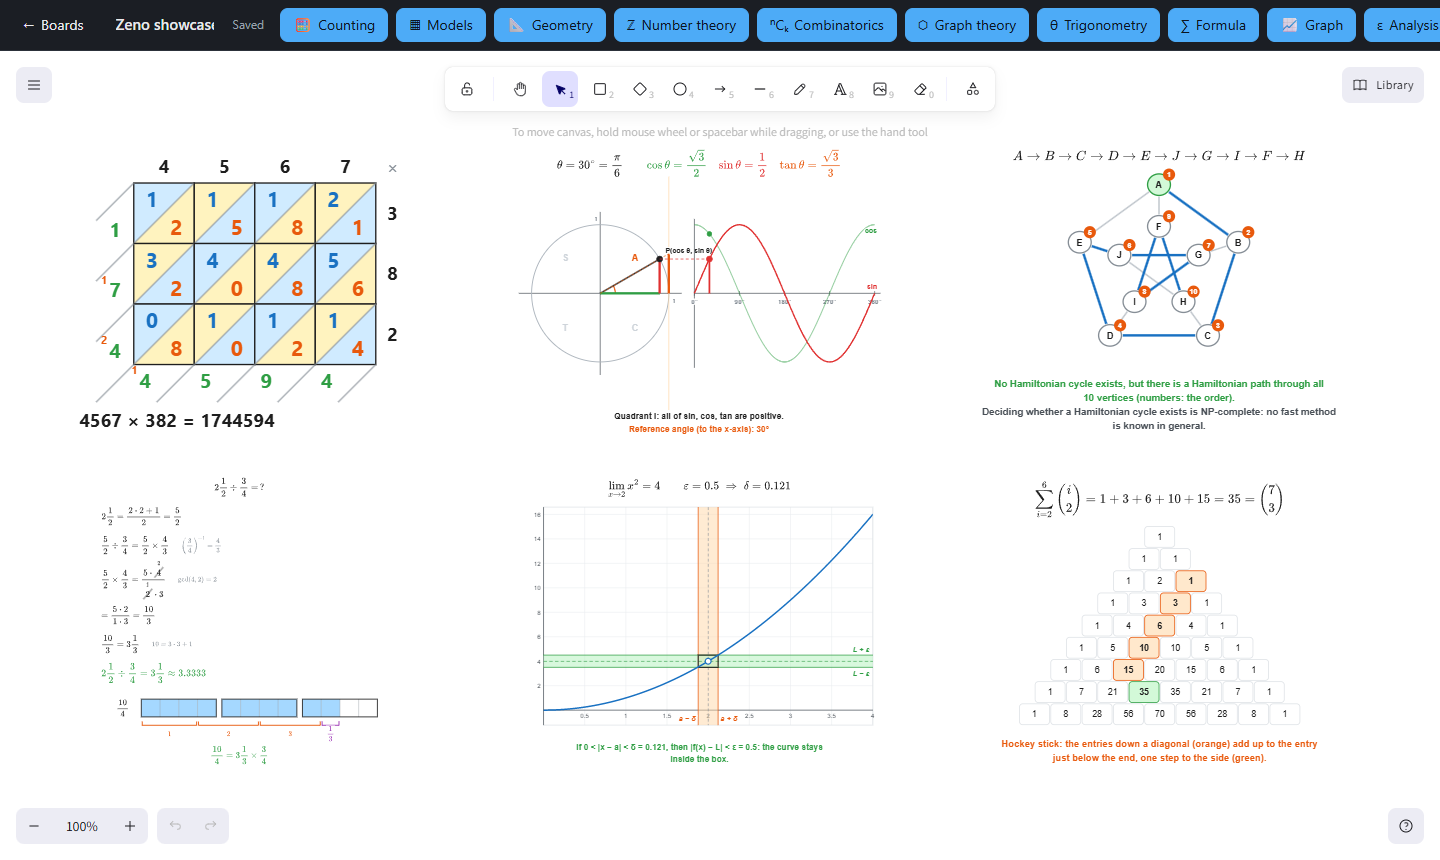
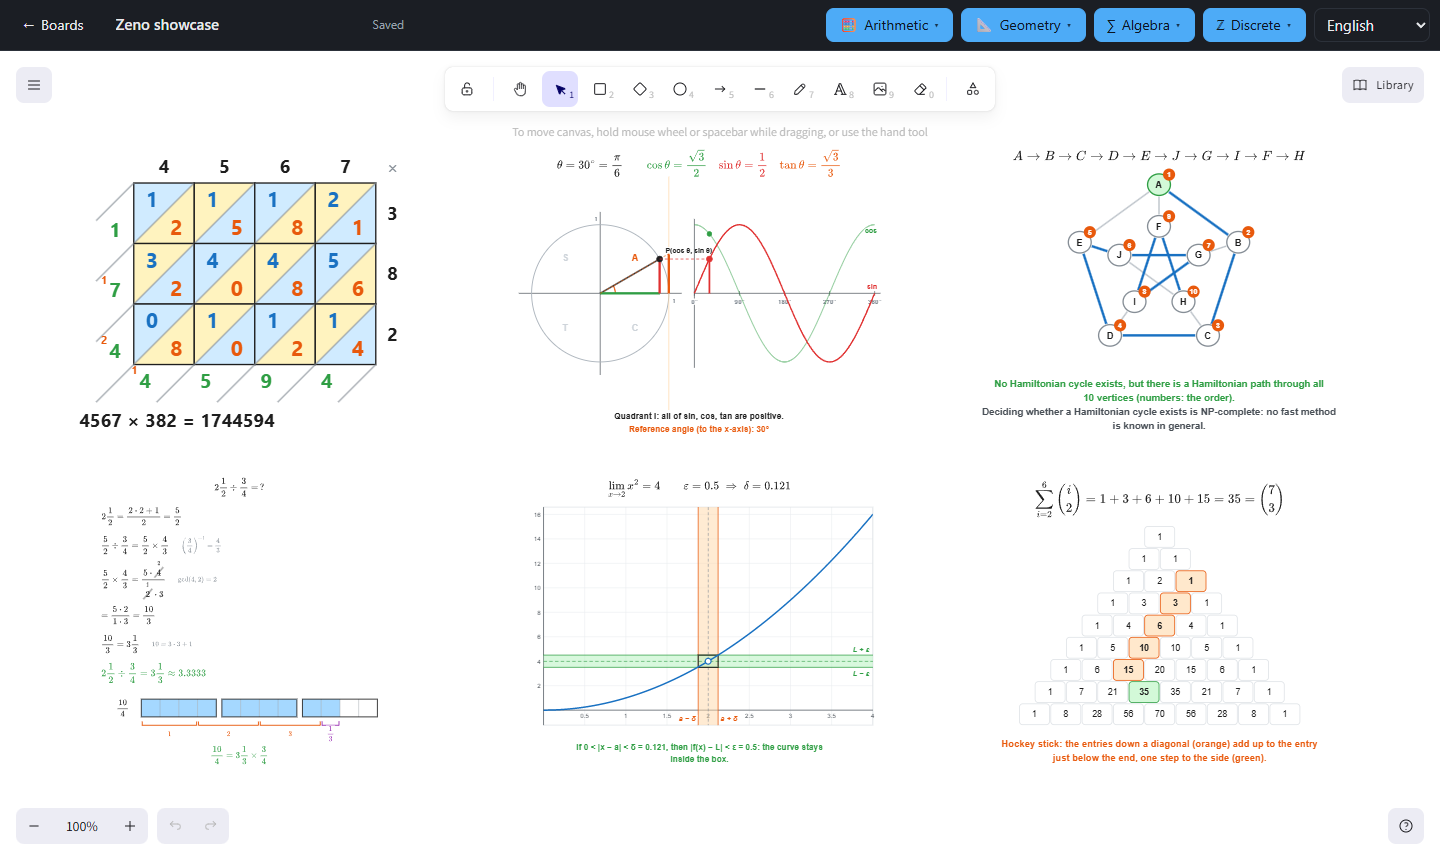
Group the toolbar into four menus: Arithmetic, Geometry, Algebra, Discrete
The 16 tool buttons are replaced by four dropdown menus (with full group
names as tooltips, keyboard navigation and Esc to close). The bar now fits
in all three languages, down to phone width. README screenshots retaken.

Changed region(s): [[0.1875, 0.0, 1.0, 0.0605]]

diff --git a/src/pages/BoardPage.tsx b/src/pages/BoardPage.tsx
@@ -15,6 +15,7 @@ import { LangSelect, useI18n } from "../i18n";
 import { FormulaDialog, type FormulaData } from "../components/FormulaDialog";
 import { GraphDialog } from "../components/GraphDialog";
 import { ModelDialog } from "../components/ModelDialog";
+import { ToolMenu } from "../components/ToolMenu";
 import type { ModelSpec, ModelType } from "../math/models";
 import type { RenderedSvg } from "../math/latex";
 import type { PlotSpec } from "../math/plot";
@@ -299,22 +300,30 @@ export function BoardPage({ id }: { id: string }) {
             ✎ <span className="btn-label">{{ formula: t.editFormula, graph: t.editGraph, model: t.editModel, "3d": t.edit3d, matrix: t.editMatrix, geometry: t.editGeometry, analysis: t.editAnalysis, statistics: t.editStatistics, integral: t.editIntegral, ode: t.editOde, trig: t.editTrig, algo: t.editAlgo, nt: t.editNt, comb: t.editComb, gt: t.editGt }[mathOf(selectedMath)!.kind]}</span>
           </button>
         )}
-        <button className="btn primary" onClick={() => setDialog({ kind: "model", start: "placeValue" })} title={t.counting}>🧮 <span className="btn-label">{t.counting}</span></button>
-        <button className="btn primary" onClick={() => setDialog({ kind: "model" })} title={t.models}>▦ <span className="btn-label">{t.models}</span></button>
-        <button className="btn primary" onClick={() => setDialog({ kind: "geometry" })} title={t.geometry}>📐 <span className="btn-label">{t.geometry}</span></button>
-        <button className="btn primary" onClick={() => setDialog({ kind: "nt" })} title={t.nt}>ℤ <span className="btn-label">{t.nt}</span></button>
-        <button className="btn primary" onClick={() => setDialog({ kind: "comb" })} title={t.comb}>ⁿCₖ <span className="btn-label">{t.comb}</span></button>
-        <button className="btn primary" onClick={() => setDialog({ kind: "gt" })} title={t.gt}>⬡ <span className="btn-label">{t.gt}</span></button>
-        <button className="btn primary" onClick={() => setDialog({ kind: "trig" })} title={t.trig}>θ <span className="btn-label">{t.trig}</span></button>
-        <button className="btn primary" onClick={() => setDialog({ kind: "formula" })} title={t.formula}>∑ <span className="btn-label">{t.formula}</span></button>
-        <button className="btn primary" onClick={() => setDialog({ kind: "graph" })} title={t.graph}>📈 <span className="btn-label">{t.graph}</span></button>
-        <button className="btn primary" onClick={() => setDialog({ kind: "analysis" })} title={t.analysis}>ε <span className="btn-label">{t.analysis}</span></button>
-        <button className="btn primary" onClick={() => setDialog({ kind: "integral" })} title={t.integrals}>∫ <span className="btn-label">{t.integrals}</span></button>
-        <button className="btn primary" onClick={() => setDialog({ kind: "ode" })} title={t.odes}>y′ <span className="btn-label">{t.odes}</span></button>
-        <button className="btn primary" onClick={() => setDialog({ kind: "statistics" })} title={t.statistics}>📊 <span className="btn-label">{t.statistics}</span></button>
-        <button className="btn primary" onClick={() => setDialog({ kind: "matrix" })} title={t.matrices}>[ ] <span className="btn-label">{t.matrices}</span></button>
-        <button className="btn primary" onClick={() => setDialog({ kind: "algo" })} title={t.algo}>⇅ <span className="btn-label">{t.algo}</span></button>
-        <button className="btn primary" onClick={() => setDialog({ kind: "3d" })} title={t.threeD}>🧊 <span className="btn-label">{t.threeD}</span></button>
+        <ToolMenu icon="🧮" label={t.groupArithmetic} items={[
+          { icon: "🧮", label: t.counting, onPick: () => setDialog({ kind: "model", start: "placeValue" }) },
+          { icon: "▦", label: t.models, onPick: () => setDialog({ kind: "model" }) },
+        ]} />
+        <ToolMenu icon="📐" label={t.groupGeometryShort} title={t.groupGeometry} items={[
+          { icon: "📐", label: t.geometry, onPick: () => setDialog({ kind: "geometry" }) },
+          { icon: "θ", label: t.trig, onPick: () => setDialog({ kind: "trig" }) },
+          { icon: "🧊", label: t.threeD, onPick: () => setDialog({ kind: "3d" }) },
+        ]} />
+        <ToolMenu icon="∑" label={t.groupAlgebraShort} title={t.groupAlgebra} items={[
+          { icon: "∑", label: t.formula, onPick: () => setDialog({ kind: "formula" }) },
+          { icon: "📈", label: t.graph, onPick: () => setDialog({ kind: "graph" }) },
+          { icon: "[ ]", label: t.matrices, onPick: () => setDialog({ kind: "matrix" }) },
+          { icon: "ε", label: t.analysis, onPick: () => setDialog({ kind: "analysis" }) },
+          { icon: "∫", label: t.integrals, onPick: () => setDialog({ kind: "integral" }) },
+          { icon: "y′", label: t.odes, onPick: () => setDialog({ kind: "ode" }) },
+        ]} />
+        <ToolMenu icon="ℤ" label={t.groupDiscreteShort} title={t.groupDiscrete} items={[
+          { icon: "ℤ", label: t.nt, onPick: () => setDialog({ kind: "nt" }) },
+          { icon: "ⁿCₖ", label: t.comb, onPick: () => setDialog({ kind: "comb" }) },
+          { icon: "⬡", label: t.gt, onPick: () => setDialog({ kind: "gt" }) },
+          { icon: "⇅", label: t.algo, onPick: () => setDialog({ kind: "algo" }) },
+          { icon: "📊", label: t.statistics, onPick: () => setDialog({ kind: "statistics" }) },
+        ]} />
         <LangSelect />
       </header>
 

diff --git a/src/components/ToolMenu.tsx b/src/components/ToolMenu.tsx
@@ -1,0 +1,84 @@
+import { useEffect, useLayoutEffect, useRef, useState } from "react";
+
+export type ToolItem = { icon: string; label: string; onPick: () => void };
+
+/** A toolbar button that opens a dropdown of tools. The list is position:fixed so the bar's overflow can't clip it.
+ *  `label` is shown on the button; `title` (the full group name) is the tooltip and the menu's accessible name. */
+export function ToolMenu({ icon, label, title = label, items }: { icon: string; label: string; title?: string; items: ToolItem[] }) {
+  const [open, setOpen] = useState(false);
+  const [pos, setPos] = useState({ left: 0, top: 0 });
+  const btn = useRef<HTMLButtonElement>(null);
+  const list = useRef<HTMLDivElement>(null);
+
+  useLayoutEffect(() => {
+    if (!open || !btn.current || !list.current) return;
+    const r = btn.current.getBoundingClientRect();
+    const w = list.current.offsetWidth;
+    setPos({ left: Math.max(8, Math.min(r.left, window.innerWidth - w - 8)), top: r.bottom + 4 });
+    list.current.querySelector<HTMLButtonElement>("button")?.focus();
+  }, [open]);
+
+  useEffect(() => {
+    if (!open) return;
+    const close = (e: Event) => {
+      const target = e.target as Node;
+      if (!list.current?.contains(target) && !btn.current?.contains(target)) setOpen(false);
+    };
+    const onKey = (e: KeyboardEvent) => {
+      if (e.key === "Escape") {
+        setOpen(false);
+        btn.current?.focus();
+      }
+    };
+    const onResize = () => setOpen(false);
+    document.addEventListener("pointerdown", close, true);
+    document.addEventListener("keydown", onKey);
+    window.addEventListener("resize", onResize);
+    return () => {
+      document.removeEventListener("pointerdown", close, true);
+      document.removeEventListener("keydown", onKey);
+      window.removeEventListener("resize", onResize);
+    };
+  }, [open]);
+
+  const onListKey = (e: React.KeyboardEvent) => {
+    if (e.key !== "ArrowDown" && e.key !== "ArrowUp") return;
+    e.preventDefault();
+    const buttons = [...list.current!.querySelectorAll<HTMLButtonElement>("button")];
+    const i = buttons.indexOf(document.activeElement as HTMLButtonElement);
+    buttons[(i + (e.key === "ArrowDown" ? 1 : -1) + buttons.length) % buttons.length]?.focus();
+  };
+
+  return (
+    <>
+      <button
+        ref={btn}
+        className={`btn primary tool-menu-btn${open ? " open" : ""}`}
+        onClick={() => setOpen((o) => !o)}
+        title={title}
+        aria-haspopup="menu"
+        aria-expanded={open}
+      >
+        {icon} <span className="btn-label">{label}</span> <span className="caret">▾</span>
+      </button>
+      {open && (
+        <div ref={list} className="tool-menu" role="menu" aria-label={title} style={pos} onKeyDown={onListKey}>
+          {items.map((it) => (
+            <button
+              key={it.label}
+              role="menuitem"
+              className="tool-menu-item"
+              onClick={() => {
+                setOpen(false);
+                it.onPick();
+              }}
+            >
+              <span className="tool-menu-icon">{it.icon}</span>
+              {it.label}
+            </button>
+          ))}
+        </div>
+      )}
+    </>
+  );
+}

diff --git a/src/i18n.tsx b/src/i18n.tsx
@@ -236,6 +236,13 @@ const en = {
     lattice: "Write a across the top and b down the right. Each cell holds the product of its two digits, tens above the diagonal and units below. Add along the diagonals from the bottom right, carrying into the next one, and read the answer down the left and along the bottom.",
   },
   counting: "Counting",
+  groupArithmetic: "Arithmetic",
+  groupGeometry: "Geometry & trig",
+  groupAlgebra: "Algebra & calculus",
+  groupDiscrete: "Discrete & stats",
+  groupGeometryShort: "Geometry",
+  groupAlgebraShort: "Algebra",
+  groupDiscreteShort: "Discrete",
   placeValue: "Place value",
   hundreds: "Hundreds",
   tens: "Tens",
@@ -1246,6 +1253,13 @@ const ru: Dict = {
     lattice: "Запишите a сверху, а b справа. В каждой клетке — произведение её цифр: десятки над диагональю, единицы под ней. Складывайте по диагоналям, начиная справа снизу, перенося в следующую, и читайте ответ по левому краю и вдоль низа.",
   },
   counting: "Счёт",
+  groupArithmetic: "Арифметика",
+  groupGeometry: "Геометрия и тригонометрия",
+  groupAlgebra: "Алгебра и анализ",
+  groupDiscrete: "Дискретная и статистика",
+  groupGeometryShort: "Геометрия",
+  groupAlgebraShort: "Алгебра",
+  groupDiscreteShort: "Дискретная",
   placeValue: "Разряды",
   hundreds: "Сотни",
   tens: "Десятки",
@@ -2254,6 +2268,13 @@ const ka: Dict = {
     lattice: "a ჩაწერეთ ზემოთ, b — მარჯვნივ. ყოველ უჯრაში მისი ციფრების ნამრავლია: ათეულები დიაგონალის ზემოთ, ერთეულები — ქვემოთ. შეკრიბეთ დიაგონალების გასწვრივ ქვედა მარჯვენა კუთხიდან, გადაიტანეთ შემდეგში და პასუხი წაიკითხეთ მარცხენა კიდესა და ქვედა მხარეზე.",
   },
   counting: "თვლა",
+  groupArithmetic: "არითმეტიკა",
+  groupGeometry: "გეომეტრია და ტრიგონომეტრია",
+  groupAlgebra: "ალგებრა და ანალიზი",
+  groupDiscrete: "დისკრეტული და სტატისტიკა",
+  groupGeometryShort: "გეომეტრია",
+  groupAlgebraShort: "ალგებრა",
+  groupDiscreteShort: "დისკრეტული",
   placeValue: "თანრიგები",
   hundreds: "ასეულები",
   tens: "ათეულები",

diff --git a/src/styles.css b/src/styles.css
@@ -108,6 +108,20 @@ input.invalid { border-color: var(--danger); }
 .title-input:hover { border-color: var(--border); }
 .save-state { font-size: 12px; color: var(--muted); white-space: nowrap; }
 .save-state.error { color: var(--danger); }
+.tool-menu-btn .caret { font-size: 10px; opacity: 0.8; margin-left: -2px; }
+.tool-menu-btn.open { background: var(--accent-hover); }
+.tool-menu {
+  position: fixed; z-index: 90; min-width: 200px; padding: 5px;
+  display: flex; flex-direction: column;
+  background: var(--surface); border: 1px solid var(--border); border-radius: 10px; box-shadow: var(--shadow);
+}
+.tool-menu-item {
+  display: flex; align-items: center; gap: 10px; height: 36px; padding: 0 10px;
+  border: none; border-radius: 7px; background: transparent; color: var(--text);
+  font: inherit; font-size: 14px; text-align: left; cursor: pointer; white-space: nowrap;
+}
+.tool-menu-item:hover, .tool-menu-item:focus-visible { background: var(--chip); outline: none; }
+.tool-menu-icon { width: 28px; text-align: center; color: var(--accent); font-weight: 600; }
 .canvas-wrap { flex: 1; position: relative; min-height: 0; }
 .center-msg { height: 100%; display: flex; flex-direction: column; gap: 12px; align-items: center; justify-content: center; color: var(--muted); }
 
@@ -196,8 +210,16 @@ input.invalid { border-color: var(--danger); }
   .model-row { grid-template-columns: 14px 60px 1fr 56px 30px; }
 }
 
-@media (max-width: 860px) {
+@media (max-width: 1080px) {
   .board-bar .btn-label { display: none; }
+}
+@media (max-width: 640px) {
+  .board-bar { gap: 4px; padding: 6px; }
+  .board-bar .title-input { min-width: 48px; padding: 0 6px; }
+  .board-bar .save-state:not(.error) { display: none; }
+  .board-bar .tool-menu-btn { padding: 0 9px; }
+  .board-bar .tool-menu-btn .caret { display: none; }
+  .board-bar .lang-select { width: 62px; padding: 0 4px; }
 }
 
 /* 3D dialog */

diff --git a/README.md b/README.md
@@ -186,6 +186,9 @@ UI in English, Russian and Georgian.
     from log n to n! with running times at 10⁸ operations per second
 - **∑ Formulas** — type LaTeX with a symbol palette and live preview; rendered with MathJax
 - **📈 Graphs** — plot up to 6 functions `y = f(x)` with ranges, grid, auto-scaling and asymptote handling
+- The tools sit in four menus on the top bar: **Arithmetic** (counting, models), **Geometry** (geometry,
+  trigonometry, 3D), **Algebra** (formulas, graphs, matrices, analysis, integrals, ODEs) and **Discrete**
+  (number theory, combinatorics, graph theory, algorithms, statistics)
 - Formulas and graphs stay editable: double-click one (or use the *Edit* button) to change it
 - Boards autosave to SQLite on your own server; works fully offline (no CDNs)
 
